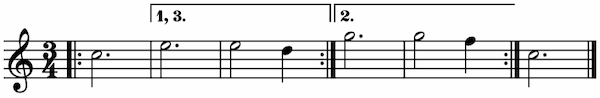
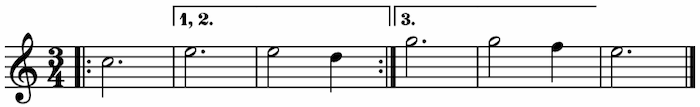
Update advanced altendings example based on feedback

Changed region(s): [[0.0, 0.2755, 1.0, 0.9796], [0.24, 0.0306, 0.87, 0.2755]]

diff --git a/by-example/index.html b/by-example/index.html
@@ -4033,7 +4033,7 @@ ul.examplenotes  {
         </measure>
         <measure number="2">
             <barline location="left">
-</script><script type="application/xml" class="markupxml diff">                <ending number="1,3" type="start"/>
+</script><script type="application/xml" class="markupxml diff">                <ending number="1,2" type="start"/>
 </script><script type="application/xml" class="markupxml nodiff">            </barline>
             <note>
                 <pitch>
@@ -4064,13 +4064,13 @@ ul.examplenotes  {
             </note>
             <barline location="right">
                 <bar-style>light-heavy</bar-style>
-</script><script type="application/xml" class="markupxml diff">                <ending number="1,3" type="stop"/>
+</script><script type="application/xml" class="markupxml diff">                <ending number="1,2" type="stop"/>
 </script><script type="application/xml" class="markupxml nodiff">                <repeat direction="backward"/>
             </barline>
         </measure>
         <measure number="4">
             <barline location="left">
-</script><script type="application/xml" class="markupxml diff">                <ending number="2" type="start"/>
+</script><script type="application/xml" class="markupxml diff">                <ending number="3" type="start"/>
 </script><script type="application/xml" class="markupxml nodiff">            </barline>
             <note>
                 <pitch>
@@ -4100,15 +4100,13 @@ ul.examplenotes  {
                 <type>quarter</type>
             </note>
             <barline location="right">
-                <bar-style>light-heavy</bar-style>
-</script><script type="application/xml" class="markupxml diff">                <ending number="2" type="stop"/>
-</script><script type="application/xml" class="markupxml nodiff">                <repeat direction="backward"/>
-            </barline>
+</script><script type="application/xml" class="markupxml diff">                <ending number="3" type="discontinue"/>
+</script><script type="application/xml" class="markupxml nodiff">            </barline>
         </measure>
         <measure number="6">
             <note>
                 <pitch>
-                    <step>C</step>
+                    <step>E</step>
                     <octave>5</octave>
                 </pitch>
                 <duration>768</duration>
@@ -4135,7 +4133,7 @@ ul.examplenotes  {
                 </measure>
                 <measure>
                     <directions>
-</script><script type="application/xml" class="markupxml diff">                        <ending type="start" number="1,3"/>
+</script><script type="application/xml" class="markupxml diff">                        <ending type="start" number="1,2"/>
 </script><script type="application/xml" class="markupxml nodiff">                    </directions>
                 </measure>
                 <measure>
@@ -4146,12 +4144,11 @@ ul.examplenotes  {
                 </measure>
                 <measure>
                     <directions>
-</script><script type="application/xml" class="markupxml diff">                        <ending type="start" number="2"/>
+</script><script type="application/xml" class="markupxml diff">                        <ending type="start" number="3"/>
 </script><script type="application/xml" class="markupxml nodiff">                    </directions>
                 </measure>
                 <measure>
                     <directions>
-                        <repeat type="end"/>
 </script><script type="application/xml" class="markupxml diff">                        <ending type="stop"/>
 </script><script type="application/xml" class="markupxml nodiff">                    </directions>
                 </measure>
@@ -4206,7 +4203,7 @@ ul.examplenotes  {
                 <measure>
                     <sequence>
                         <event value="/2d">
-                            <note pitch="C5"/>
+                            <note pitch="E5"/>
                         </event>
                     </sequence>
                 </measure>
